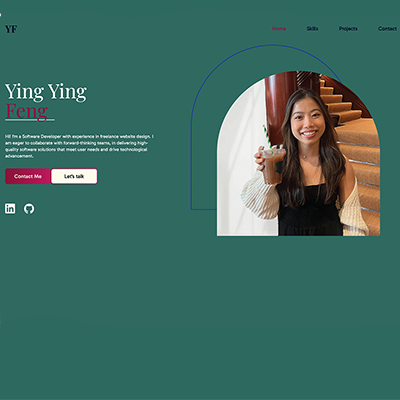
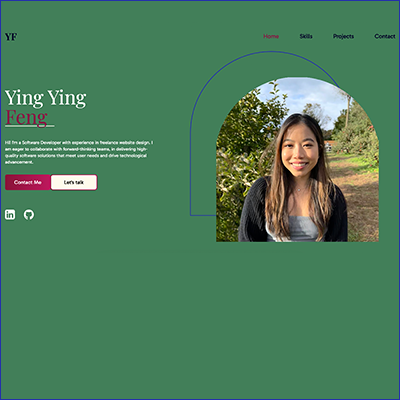
bg changes and grammar changes

diff --git a/src/scenes/Projects.jsx b/src/scenes/Projects.jsx
@@ -19,8 +19,8 @@ const projectVariant = {
 
 const Project = ({ title, subtext }) => {
   // represents the text that appears on hover. Z-30 allows it to be on top of the image
-  const overlayStyles = `absolute h-full w-full opacity-0 hover:opacity-90 transition duration-500
-    bg-grey z-30 flex flex-col justify-center items-center text-center p-16 text-deep-blue`;
+  const overlayStyles = `absolute h-full w-full opacity-0 hover:opacity-95 transition duration-500
+    bg-grey z-30 flex flex-col justify-center items-center text-center p-16 text-white`;
   const projectTitle = title.split(" ").join("-").toLowerCase();
 
   return (
@@ -63,7 +63,7 @@ const Projects = () => {
         </div>
         <p className="mt-10 mb-10">
           Across the stack, the projects I have worked on have helped people, businesses, and expanded my 
-          knowledge base and skills in web development.
+          skills in web development.
         </p>
       </motion.div>
 
@@ -79,18 +79,18 @@ const Projects = () => {
           {/* ROW 1 */}
           <div
             className="flex justify-center text-center items-center p-10 bg-pink-900
-              max-w-[400px] max-h-[400px] text-2xl font-gabarito font-semibold"
+              max-w-[400px] max-h-[400px] text-3xl font-gabarito font-semibold"
           >
             EFFICIENT BACKENDS
           </div>
-          <Project title="Boba Girl" subtext="An e-commerce store offers the convenience of purchasing boba ingredients and kits, which are delivered for a homemade boba experience."/>
+          <Project title="Boba Girl" subtext="An e-commerce store offers the convenience of purchasing boba ingredients and kits, which are delivered for a homemade boba experience." text="hi"/>
           <Project title="Life Below Water" subtext="A theoretical online recycling program designed to monitor recycling activity, manage receipts, and distribute rewards."/>
 
           {/* ROW 2 */}
           <Project title="Gift Finder" subtext="A platform for gift suggestions, wishlist sharing, and reserving gifts within user communities."/>
           <div
             className="flex justify-center text-center items-center p-10 bg-amber-50 text-pink-900
-              max-w-[400px] max-h-[400px] text-2xl font-gabarito font-semibold"
+              max-w-[400px] max-h-[400px] text-3xl font-gabarito font-semibold"
           >
             FUNCTIONAL APIs
           </div>
@@ -101,7 +101,7 @@ const Projects = () => {
           <Project title="Bubble Bear Tea" subtext="A website for a bubble tea shop highlighting the menu and the owners' commitment and backstory."/>
           <div
             className="flex justify-center text-center items-center p-10 bg-blue
-              max-w-[400px] max-h-[400px] text-2xl font-gabarito font-semibold"
+              max-w-[400px] max-h-[400px] text-3xl font-gabarito font-semibold"
           >
             SMOOTH FRONTENDS
           </div>

diff --git a/src/scenes/MySkills.jsx b/src/scenes/MySkills.jsx
@@ -24,7 +24,7 @@ const MySkills = () => {
           </p>
           <LineGradient width="w-1/3" />
           <p className="mt-10 mb-7">
-            As a full stack developer with a background in architecture, I offer an abstract and unique skill set that bridges the world of design and development.
+            As a full stack developer with a background in Architecture, I offer an abstract and unique skill set that bridges the world of design and development.
             <br></br>Some of these skills include:
           </p>
         </motion.div>
@@ -69,7 +69,7 @@ const MySkills = () => {
                 Front End
               </p>
             </div>
-            <div className="-z-1 w-1/2 md:w-3/4 h-32 bg-pink-900 absolute right-0 top-0" />
+            <div className="-z-1 w-1/2 md:w-3/7 h-32 opacity-75 bg-pink-900 absolute right-0 top-0" />
           </div>
           <p className="mt-5">
             An effective and visually appealing user interface is an essential component in achieving favorable outcomes. <br></br>
@@ -96,7 +96,7 @@ const MySkills = () => {
                 Back End
               </p>
             </div>
-            <div className="w-1/2 md:w-3/4 h-32 bg-amber-50 absolute right-0 top-0 -z-[-1]" />
+            <div className="w-1/2 md:w-4/7 h-32 bg-amber-50 opacity-75 absolute right-0 top-0 -z-[-1]" />
           </div>
           <p className="mt-5">
             An organized database enhances scalability and security for web applications. <br></br>
@@ -123,7 +123,7 @@ const MySkills = () => {
                 APIs
               </p>
             </div>
-            <div className="w-1/2 md:w-3/4 h-32 bg-blue absolute right-0 top-0 z-1" />
+            <div className="w-1/2 md:w-3/4 h-32 opacity-75 bg-blue absolute right-0 top-0 z-1" />
           </div>
           <p className="mt-5">
           I have hands-on experience working with various APIs, integrating external services to enhance the functionality of web applications. <br></br>

diff --git a/src/scenes/Landing.jsx b/src/scenes/Landing.jsx
@@ -20,15 +20,15 @@ const Landing = ({ setSelectedPage }) => {
           >
             <img
               alt="profile"
-              className="hover:filter hover:saturate-200 transition duration-500 z-10 w-full max-w-[300px] md:max-w-[500px]"
-              src="assets/yyprofile-curved.png"
+              className="hover:filter hover:saturate-00 transition duration-500 z-10 w-full max-w-[300px] md:max-w-[500px]"
+              src="assets/yypf-curved.png"
             />
           </div>
         ) : (
           <img
             alt="profile"
             className="z-10 w-full max-w-[300px] md:max-w-[500px]"
-            src="assets/yyprofile-curved.png"
+            src="assets/yypf-curved.png"
           />
         )}
       </div>
@@ -56,8 +56,6 @@ const Landing = ({ setSelectedPage }) => {
 
           <p className="mt-10 mb-7 text-sm text-center md:text-start">
           Hi! I'm a Software Developer with experience in freelance website design. I am eager to collaborate with forward-thinking teams, in delivering high-quality software solutions that meet user needs and drive technological advancement.
-
-
           </p>
         </motion.div>
 

diff --git a/src/scenes/Navbar.jsx b/src/scenes/Navbar.jsx
@@ -29,7 +29,7 @@ const Navbar = ({ isTopOfPage, selectedPage, setSelectedPage }) => {
 
         {/* DESKTOP NAV */}
         {isDesktop ? (
-          <div className="flex justify-between gap-16 font-gabarito text-md font-semibold">
+          <div className="flex justify-between gap-16 font-gabarito text-lg font-semibold">
             <Link
               page="Home"
               selectedPage={selectedPage}

diff --git a/src/index.css b/src/index.css
@@ -9,6 +9,6 @@ body,
 #root,
 .app {
   /* height: 100%; */
-  background-color: #2f6960;
+  background-color: #417f59;
   @apply text-white;
 }
